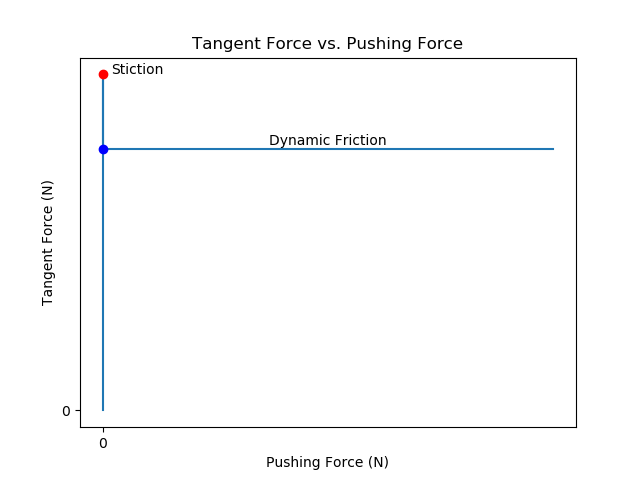
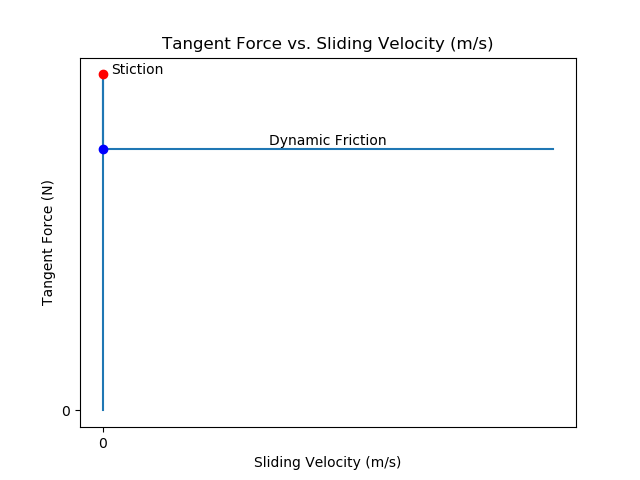
plant/images: Update Coulomb friction plot label (#13485)

Changed region(s): [[0.25, 0.0625, 0.7812, 0.125], [0.4062, 0.9375, 0.625, 1.0]]

diff --git a/multibody/plant/images/ideal_stiction.py b/multibody/plant/images/ideal_stiction.py
@@ -17,8 +17,8 @@ def main():
     plt.text((f_p[-2] + f_p[-1])*0.5, f_t[-1] + 0.01,
              'Dynamic Friction',
              horizontalalignment='center')
-    plt.title('Tangent Force vs. Pushing Force')
-    plt.xlabel('Pushing Force (N)')
+    plt.title('Tangent Force vs. Sliding Velocity (m/s)')
+    plt.xlabel('Sliding Velocity (m/s)')
     plt.ylabel('Tangent Force (N)')
 
     f = plt.gca()
